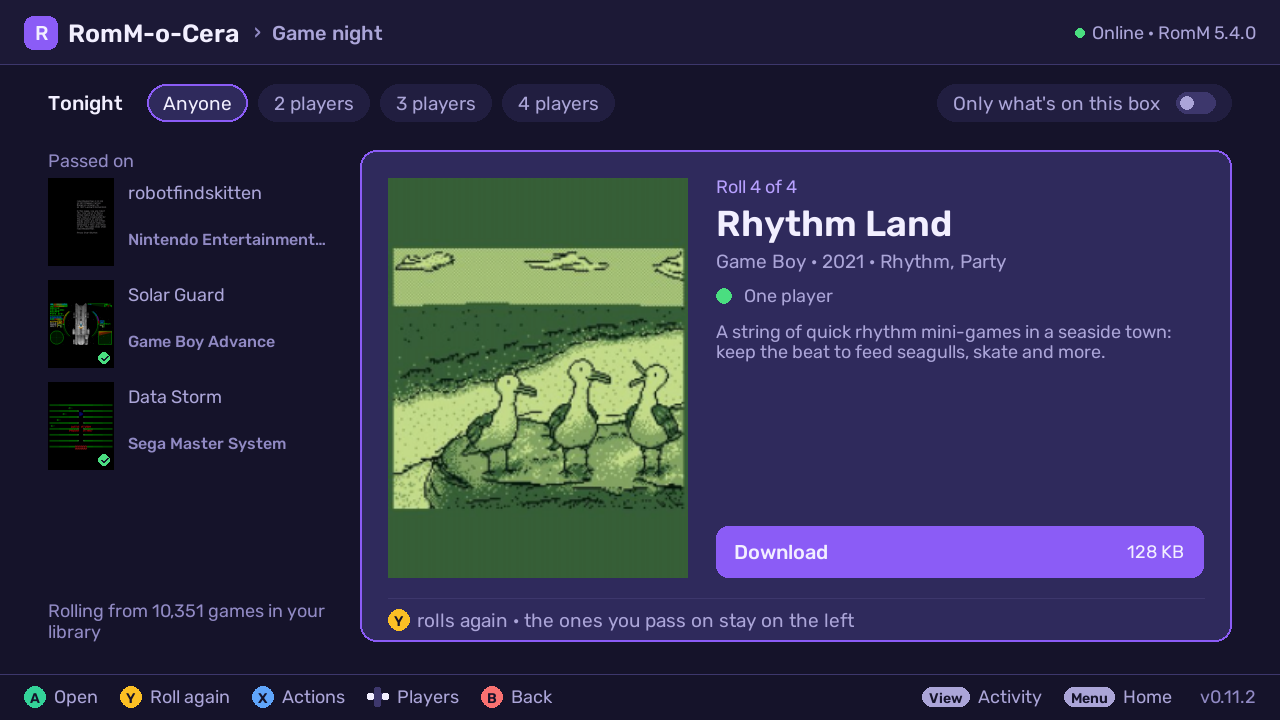
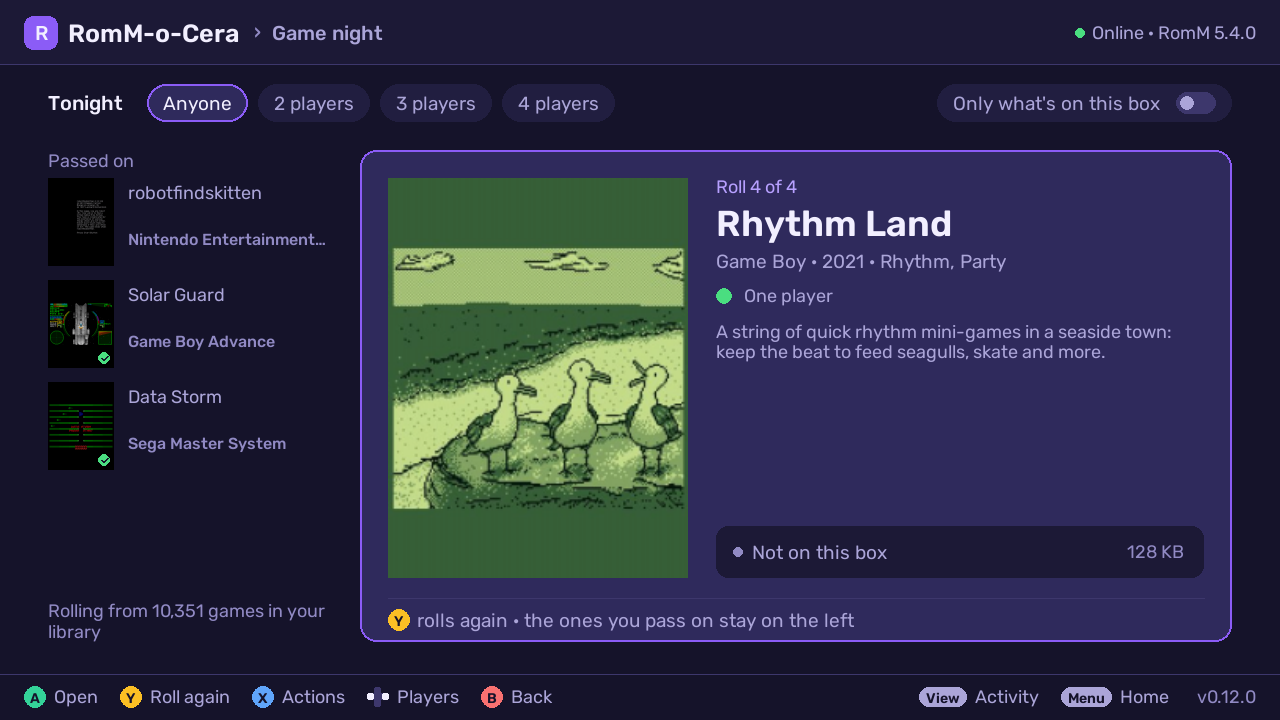
chore: v0.12.0

Changed region(s): [[0.5625, 0.7333, 0.9375, 0.825], [0.7188, 0.9472, 0.9688, 0.9778]]

diff --git a/rommlib.py b/rommlib.py
@@ -33,12 +33,12 @@ from typing import Callable, Optional
 
 import requests
 
-VERSION = "0.11.2"            # changes only for a real GitHub release
+VERSION = "0.12.0"            # changes only for a real GitHub release
 BUILD = ""                   # internal builds: deploy.sh stamps the git commit here (empty in releases)
 VERSION_LABEL = VERSION + ("+" + BUILD if BUILD else "")
 
 APP_DIR = os.path.dirname(os.path.abspath(__file__))
-RELEASE_DATE = "2026-10-17"   # bump with VERSION (tools/build-release.sh refuses a stale one)
+RELEASE_DATE = "2026-11-06"   # bump with VERSION (tools/build-release.sh refuses a stale one)
 AUTHOR = "fraygox"
 PROJECT_URL = "https://github.com/fraygox/romm-o-cera"
 DOCS_URL = "https://fraygox.github.io/romm-o-cera/"     # the documentation site (Settings shows its QR code)

diff --git a/CHANGELOG.md b/CHANGELOG.md
@@ -3,6 +3,46 @@
 Every stable release. Nightly builds: the commits on main since the last one.
 Releases up to v0.8.0: [GitHub Releases](https://github.com/fraygox/romm-o-cera/releases).
 
+## v0.12.0 (2026-11-06)
+
+Your games and files are safe: the app changes only what it downloaded or what a confirm lists, and Check games and On this box show what needs a look at a glance
+
+### Features
+- **feat:** Check games lists the last check's findings beside a panel that says what's wrong and what downloading again does. Y checks again, X Actions has a quick and a full check, and Games ES can't see sits under the findings.
+- **feat:** On this box opens with one line about the whole box over its space bar. Each section shows its state at a glance: a value on the right, and a coloured line and edge when it needs a look.
+- **feat:** Y searches in every list of games (a collection's filter moved to the pills and X Actions). Home's and Game night's panels say where a game stands; A opens its page, where Play now or Download is. Section labels are in sentence case.
+
+### Your files are safe
+- **fix:** Each download records the files it wrote, so deleting one of RomM-o-Cera's games takes only those. A patch, cheat, translation, save or note you add to its folder stays. A file of the app's that something else changed or replaced since is treated like one you put there.
+- **fix:** Games you put on the box yourself can still be deleted, freed up, downloaded again, repaired by Check games and compressed. The confirm says the game wasn't downloaded by RomM-o-Cera and lists exactly the files that go or get replaced: the game file and the tracks its sheet names (in a folder named like the game, the files named like it), or a playlist of yours alone. Your notes, saves, patches, cheats, other games beside it, and tracks or discs another sheet or playlist uses are never touched. Download all damaged again says how many weren't downloaded by RomM-o-Cera.
+- **fix:** A confirm acts only on the files it showed: a file swapped while it's open, or before a queued download runs, is left alone.
+- **fix:** Nothing automatic writes over a file the app didn't write. A download unpacks beside your files in a game's folder, never over them, and compresses only what it brought.
+- **fix:** Art, videos and manuals are never deleted or written over. Deleting a game leaves them. Downloads and Fill in game info add art only where nothing is there yet under EmulationStation's name for it, and never write through a link.
+- **fix:** A folder you made that's named like a RomM game is that game only when a game file in it is named like it too, so Delete, Check games and Compare never take your cheats, patches, saves or other games in it for RomM's. Patches and cheats (`.ips`, `.bps`, `.ppf`, `.cht`…) are never taken for a game.
+- **fix:** Compressing never replaces or deletes a file it didn't make (unless that file is certainly cut short and a fresh copy of the game came down beside it). A game whose compressed name is already taken is listed under "can't convert" with what to do. A game in its own folder keeps the folder when it holds anything of yours, and a playlist of yours moves beside the compressed discs. A disc still being unpacked or copied isn't offered yet.
+- **fix:** Clean up leftovers offers a converted game's originals only when the converted file checks out and nothing still uses them. It never offers a zip holding anything besides the disc, a `.7z` kept beside a CHD, another program's partial download, or a partial or temporary file changed in the last hour.
+- **fix:** Games ES can't see › Unpack keeps the Keep free on disk reserve, and refuses an archive named like a game ES already lists beside it. Memory cards and other saves are no longer listed there.
+
+### Fixes
+- **fix:** Cancelled, interrupted and repaired downloads, disc compression, updates and background hand-overs no longer leave a broken or half-deleted game or app behind. Closing the app or updating stops an unpack in progress; it starts again later, with nothing half-unpacked left behind.
+- **fix:** A disc image missing a quarter or more of its disc counts as cut short: Check games marks it damaged and it's never compressed (and its original deleted) as if it were whole.
+- **fix:** Compare says "Differs from RomM's" for a copy that isn't the same as RomM's (a CHD cut short included), and "Newer in RomM" only when RomM's file changed since the app downloaded it. A compressed copy the app didn't make matches by name only (Check games' Full check catches a damaged one), and a folder holding only your own files is no longer a match.
+- **fix:** A game whose file was changed since it was downloaded says so, a game whose later download failed still shows as on the box with Play now and Delete, and a retried download is compressed as soon as it's in.
+- **fix:** Fill in game info no longer lists a game again and again for art it won't write over, and its confirm says plainly what it adds.
+- **fix:** Game night starts over when you change who's playing or Only what's on this box, so a roll that finds nothing no longer leaves a game that doesn't fit on screen.
+- **fix:** Changing a setting when the disk is full says it couldn't be saved instead of closing the app.
+
+### Upgrading
+- A game downloaded before this version has no list of its files, so deleting it still takes the game files in its folder (never your notes, saves, patches or cheats). Games downloaded from now on are deleted file by file.
+- If you downloaded a game again with v0.11.2 or earlier and got "already on the box under that name", delete the leftover `.zip` beside its CHD.
+
+### Known limits
+- Your art under the names EmulationStation gives a game's art (`images/<game>-image.png`…) that no gamelist entry links stays on disk but isn't linked, so that game shows no picture of that kind; link it in EmulationStation's metadata editor. Older downloads whose image is only the box art again keep it.
+- Downloading again over a game you copied in yourself gives it RomM's name and art, not the name and art links you had set (your files stay). Downloading into a folder that also holds a near-same-named sheet of yours (a translation) can still give RomM's name to your sheet.
+- A converted disc is checked against its own checksums and RomM's size, not RomM's contents: a different disc of exactly the same size put in place of a game's CHD passes Full check, and Compare goes by names.
+- Compare can show a folder named like a game, holding only a sheet of yours whose tracks are missing, as a match (Check games flags it).
+- A PS3 disc left partly decrypted by another tool is caught in most layouts but not all (see the PS3 page).
+
 ## v0.11.2 (2026-10-17)
 
 Faster game info away from home, and clearer words, counts and buttons on every screen
